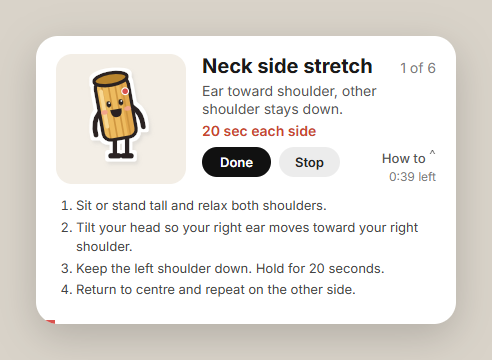
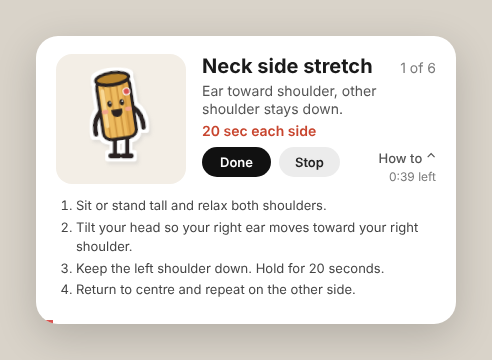
docs: redesign README with feature tables, gallery, and config reference
Refresh the howto and cast screenshots to match the v1.1.0 renderer.

Claude-Session: https://claude.ai/code/session_01QwNNP61YE1UXLNfTMkGZuS

diff --git a/README.md b/README.md
@@ -1,39 +1,67 @@
+<div align="center">
+
+<img src="docs/images/motion.gif" alt="Toni the Rigatoni waving" width="180">
+
 # Noodle
 
-A small Windows tray app that brings up a friendly, timed stretch-break card. It runs locally with Electron and does not require an editor integration.
+**A friendly little stretch-break companion that lives in your Windows tray.**
 
-<p align="center">
-  <img src="docs/images/entry.png" alt="Noodle's It's time reminder" width="492">
-  <img src="docs/images/card.png" alt="Noodle's stretch reminder card" width="492">
-  <img src="docs/images/howto.png" alt="Noodle's expanded how-to instructions" width="492">
-</p>
+Every so often, Toni the Rigatoni slides in, waves hello, and walks you through a quick stretch.
 
-<p align="center"><img src="docs/images/motion.gif" alt="Noodle wave motion preview" width="260"></p>
+![Platform](https://img.shields.io/badge/platform-Windows-0078D6?style=flat-square&logo=windows&logoColor=white)
+![Electron](https://img.shields.io/badge/Electron-44-47848F?style=flat-square&logo=electron&logoColor=white)
+![Version](https://img.shields.io/badge/version-1.1.0-EDBB5F?style=flat-square)
+![Local only](https://img.shields.io/badge/data-100%25%20local-2B2420?style=flat-square)
+![Reduced motion](https://img.shields.io/badge/a11y-reduced%20motion-C8452E?style=flat-square)
 
-The reminder begins with an “It’s time to stretch!” prompt and a short subtitle, then opens the timed card and its optional how-to steps. Toni waves, breathes, blinks, walks, and makes small controlled exercise movements; the card uses smooth entry and pose transitions. When Windows asks for reduced motion, Noodle keeps clear static poses and skips the typewriter effect.
+[Install](#-install-on-windows) · [Features](#-features) · [Configure](#%EF%B8%8F-configure) · [Automation](#-local-http-api) · [Claude Code hooks](#-optional-claude-code-hooks)
 
-## What it does
+</div>
 
-- Shows a short sequence of configurable exercise reminders with a timer and expandable instructions.
-- Uses an active screen-time reminder by default: every 30 minutes, with a 5-minute idle reset.
-- Includes tray controls for **Show now**, **Open cast**, **Pause 1 hour**, **Start with Windows**, and **Quit**.
-- Keeps a daily session count at `%APPDATA%\noodle\log.json`.
-- Offers local HTTP controls for automation: `POST /show`, `POST /start`, `POST /stop`, and `GET /status` on `127.0.0.1:47321`.
+---
 
-## Screenshots
+## 👋 Meet the break
 
-Toni and Sammy, the two locally rendered mascot characters, are built from the app's own SVG renderer.
+<table>
+<tr>
+<td align="center" width="33%"><img src="docs/images/entry.png" alt="Intro: It's time to stretch!" width="100%"><br><sub><b>1 · The nudge</b><br>Toni waves and types the intro.</sub></td>
+<td align="center" width="33%"><img src="docs/images/card.png" alt="Timed stretch card" width="100%"><br><sub><b>2 · The stretch</b><br>A timed card with a progress bar.</sub></td>
+<td align="center" width="33%"><img src="docs/images/howto.png" alt="Expanded how-to steps" width="100%"><br><sub><b>3 · The how-to</b><br>Step-by-step instructions, one click away.</sub></td>
+</tr>
+</table>
 
-<p align="center">
-  <img src="docs/images/cast.png" alt="Toni's poses, palette, and faces" width="512">
-  <img src="docs/images/cast2.png" alt="Sammy's poses, palette, and faces" width="512">
-</p>
+Toni **waves, breathes, blinks, walks, and moves through each exercise** with smooth entry and pose transitions. If Windows is set to reduce motion, Noodle shows still poses and plain text instead, and still shows every message.
 
-## Install on Windows
+## ✨ Features
 
-1. Download and install the current Node.js LTS release from [nodejs.org](https://nodejs.org/).
-2. [Download Noodle as a ZIP](https://github.com/Nanoxlr8/noodle/archive/refs/heads/main.zip) and extract it somewhere local.
-3. Open PowerShell in the extracted folder and run:
+| | Feature | Details |
+|:-:|---|---|
+| ⏱ | **Screen-time reminder** | Fires after 30 active minutes by default. Stepping away for 5 minutes resets the clock. |
+| 🧘 | **Guided sessions** | A short run of timed stretches (neck, chin tuck, doorway, shoulders, wrists, 20-20-20 eyes). |
+| 🚶 | **Walk breaks** | Every few sessions, Noodle swaps the stretches for a 2-minute walkaround. |
+| 🎛 | **Tray controls** | Show now · Open cast · Pause 1 hour · Start with Windows · Quit |
+| 📊 | **Daily count** | Session tally kept in `%APPDATA%\noodle\log.json`. |
+| 🔌 | **Local HTTP API** | Trigger or cancel breaks from scripts, hooks, or other tools. |
+| ♿ | **Accessible motion** | Follows the system `prefers-reduced-motion` setting. |
+| 🔒 | **Private by design** | No accounts and no telemetry. It only listens on `127.0.0.1`. |
+
+## 🍝 The Noodle Cast
+
+Both mascots are drawn live as SVG by the app's own renderer. Open the cast from the tray to browse every pose, face, and palette swatch.
+
+<table>
+<tr>
+<td align="center" width="50%"><img src="docs/images/cast.png" alt="Toni the Rigatoni: poses, palette and faces" width="100%"><br><sub><b>Toni</b> · the Rigatoni</sub></td>
+<td align="center" width="50%"><img src="docs/images/cast2.png" alt="Sammy the Spaghetti: poses, palette and faces" width="100%"><br><sub><b>Sammy</b> · the Spaghetti</sub></td>
+</tr>
+</table>
+
+## 🚀 Install on Windows
+
+> **Requires** [Node.js LTS](https://nodejs.org/).
+
+1. **[Download Noodle as a ZIP](https://github.com/Nanoxlr8/noodle/archive/refs/heads/main.zip)** and extract it somewhere local.
+2. Open PowerShell in the extracted folder and run:
 
    ```powershell
    npm install
@@ -41,17 +69,82 @@ Toni and Sammy, the two locally rendered mascot characters, are built from the a
    npm start
    ```
 
-   You can also double-click `start-noodle.cmd` for a silent background start after the first install.
+3. Look for Toni in your system tray. 🎉
 
-## Configure it
+> [!TIP]
+> After the first install, double-click **`start-noodle.cmd`** to start Noodle silently in the background.
 
-- `exercises.json` defines the title, instruction, duration, mascot pose, and expandable steps. The app reads it at each session.
-- `config.json` controls the cooldown, start delay, local port, walk cadence, screen-time reminder, and idle reset. The supplied defaults set `screen_time_min` to `30` and `idle_reset_min` to `5`.
-- `npm run screenshots` writes fresh PNGs to `screenshots/`.
-- `npm test` checks the renderer's live animation layers and its reduced-motion fallback.
+## ⚙ Configure
 
-## Optional Claude Code hooks
+### `config.json`
 
-Noodle works on its own. If you use Claude Code, you can optionally replace `<path-to-noodle>` in `hooks/settings-snippet.json` with your local folder, then merge its `hooks` block into `~/.claude/settings.json`.
+| Key | Default | What it does |
+|---|:-:|---|
+| `screen_time` | `true` | Turn the active screen-time reminder on or off. |
+| `screen_time_min` | `30` | Active minutes before a break pops up. |
+| `idle_reset_min` | `5` | Idle minutes that count as a natural break and reset the clock. |
+| `cooldown_min` | `25` | Minimum gap between hook-triggered breaks. |
+| `start_delay_sec` | `20` | Delay between a `/start` call and the card appearing. |
+| `walk_every_sessions` | `4` | Turn every Nth session into a walk break. |
+| `walk_after_min` | `10` | Minutes since the last walk after which a session becomes a walk break. |
+| `port` | `47321` | Local port for the HTTP API. |
 
-The `/start` hook begins the configured delay and `/stop` cancels it. A reminder still respects the configured cooldown.
+### `exercises.json`
+
+Each entry sets the `title`, `instruction`, `duration_sec`, `duration_label`, mascot `pose`, and `how_to` steps. Noodle re-reads the file at the start of each session, so your edits apply without a restart.
+
+<details>
+<summary><b>Example exercise</b></summary>
+
+```json
+{
+  "id": "chin_tuck",
+  "title": "Chin tuck",
+  "instruction": "Pull your chin straight back to make a double chin.",
+  "duration_sec": 30,
+  "duration_label": "10 sec × 3",
+  "pose": "chin_tuck",
+  "how_to": ["Sit tall and look straight ahead.", "Slide your chin straight back.", "Hold for 10 seconds.", "Repeat 3 times."]
+}
+```
+
+Available poses: `idle` · `wave` · `doorway` · `chin_tuck` · `neck_side` · `peek` · `walk`
+
+</details>
+
+## 🔌 Local HTTP API
+
+All endpoints listen on `http://127.0.0.1:47321`.
+
+| Method | Path | Effect |
+|:-:|---|---|
+| `POST` | `/show` | Show a break card now. |
+| `POST` | `/start` | Show a card after `start_delay_sec`, unless the cooldown is still running. |
+| `POST` | `/stop` | Cancel a pending `/start`. |
+| `GET` | `/status` | Returns `{ open, pending, kind, screenTime, activeMin }`. |
+
+```powershell
+Invoke-RestMethod -Method Post http://127.0.0.1:47321/show
+```
+
+## 🤖 Optional Claude Code hooks
+
+Noodle works fine on its own. If you use Claude Code, it can offer a stretch while Claude is working:
+
+1. Open `hooks/settings-snippet.json` and replace `<path-to-noodle>` with the path to your local folder.
+2. Merge its `hooks` block into `~/.claude/settings.json`.
+
+Sending a prompt calls `/start`, which begins the delay. When Claude finishes, `/stop` cancels it. The cooldown still applies. The hook never prints output, and it always exits within 0.5 s, even when Noodle isn't running.
+
+## 🛠 Development
+
+| Command | Purpose |
+|---|---|
+| `npm start` | Run the app. |
+| `npm test` | Check the live animation layers and the reduced-motion fallback. |
+| `npm run screenshots` | Write fresh PNGs to `screenshots/`. |
+
+<div align="center">
+<br>
+<sub>Made with 🍝 and good posture.</sub>
+</div>
